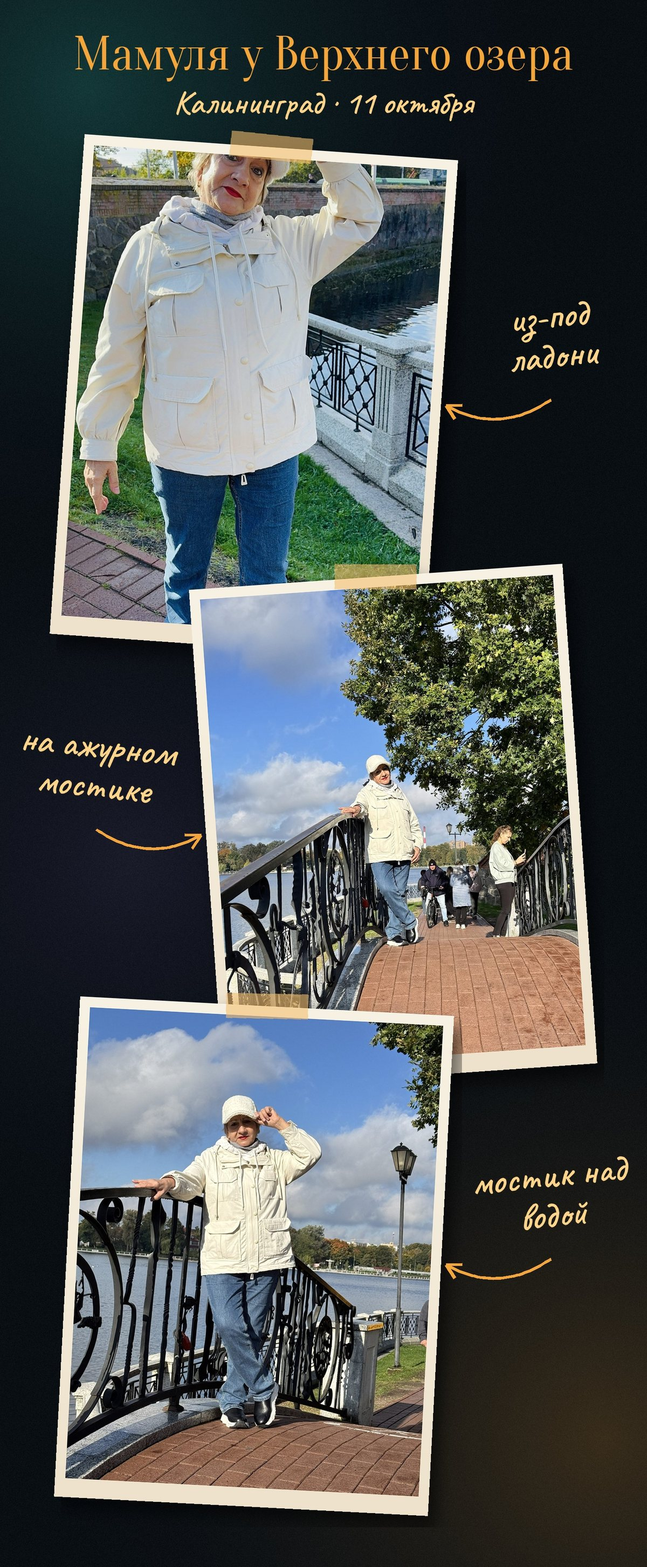
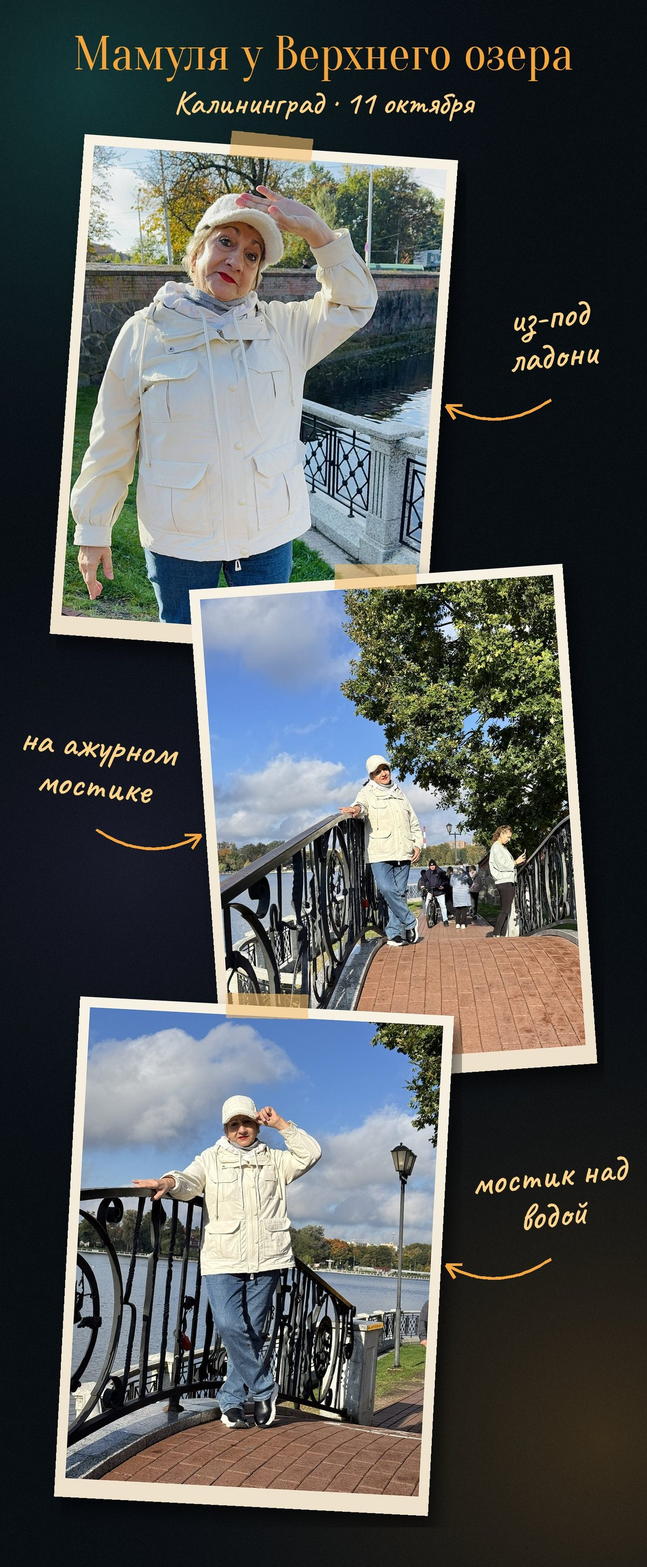
Альбом «Калининград»: в фильме страницы из 3 фото видны целиком, мамуля — с головой
- Страница «Мамуля у Верхнего озера»: фото «из-под ладони» обрезается снизу, а не сверху — голова видна.
- Фильм: высокие страницы больше не увеличиваются (наезд срезал верх); камера показывает страницу
  во всю ширину сверху и плавно опускается к нижнему фото, успевая до смены кадра.
- Подпись внизу кадра со страницей уходит к концу спуска, чтобы не закрывать нижнее фото.

Claude-Session: https://claude.ai/code/session_01BUmNQ2Kk9fTi5P6tnA3gYJ

Changed region(s): [[0.0925, 0.0929, 0.7092, 0.4026]]

diff --git a/kaliningrad/album/index.html b/kaliningrad/album/index.html
@@ -281,6 +281,10 @@ body.picking .wrap{padding-bottom:calc(var(--nav-h) + 230px + env(safe-area-inse
 .layer .bg.dim{filter:brightness(.38) saturate(1.1) blur(3px);transform:scale(1.06)}
 .layer .ph{position:absolute;inset:0;width:100%;height:100%;object-fit:contain;will-change:transform}
 .layer .ph.cover{object-fit:cover}
+/* высокая страница из 3 фото: во всю ширину, камера едет сверху вниз (без наезда, чтобы не срезать верх) */
+.layer .ph.page{overflow:hidden}
+.layer .ph.page img{display:block;width:100%;height:auto;will-change:transform}
+.layer .ph.page.still img{width:auto;height:100%;margin:0 auto}
 .shade{position:absolute;inset:0;background:radial-gradient(ellipse at 50% 55%,rgba(0,0,0,.12),rgba(0,0,0,.62))}
 .ft{
   position:absolute;inset:0;display:grid;place-content:center;justify-items:center;text-align:center;gap:10px;
@@ -641,7 +645,7 @@ body.picking .wrap{padding-bottom:calc(var(--nav-h) + 230px + env(safe-area-inse
  {"id": "d1-06", "day": 1, "src": "photos/d1-06.jpg", "thumb": "photos/t/d1-06.jpg", "w": 1500, "h": 2000, "place": "oz", "title": "Экскурсия у Верхнего озера", "date": "2026-10-11"},
  {"id": "d1-08", "day": 1, "type": "video", "src": "photos/d1-08.mp4?v=3", "poster": "photos/d1-08.jpg", "thumb": "photos/t/d1-08.jpg", "w": 720, "h": 1280, "dur": 5.5, "place": "oz", "title": "Шаг за шагом вдоль озера", "date": "2026-10-11", "time": "10:24", "muted": true},
  {"id": "d1-09", "day": 1, "type": "video", "src": "photos/d1-09.mp4?v=2", "poster": "photos/d1-09.jpg", "thumb": "photos/t/d1-09.jpg", "w": 720, "h": 1280, "dur": 5.9, "place": "oz", "title": "Мамуля распахнула руки озеру", "date": "2026-10-11", "time": "10:25", "muted": true},
- {"id": "d1-70", "day": 1, "src": "photos/d1-70.jpg", "thumb": "photos/t/d1-70.jpg", "w": 1200, "h": 2906, "place": "oz", "title": "Мамуля у Верхнего озера", "date": "2026-10-11", "collage": true},
+ {"id": "d1-70", "day": 1, "src": "photos/d1-70.jpg?v=2", "thumb": "photos/t/d1-70.jpg?v=2", "w": 1200, "h": 2906, "place": "oz", "title": "Мамуля у Верхнего озера", "date": "2026-10-11", "collage": true},
  {"id": "d1-71", "day": 1, "src": "photos/d1-71.jpg?v=2", "thumb": "photos/t/d1-71.jpg?v=2", "w": 1200, "h": 2775, "place": "oz", "title": "Верхнее озеро", "date": "2026-10-11", "collage": true},
  {"id": "d1-72", "day": 1, "src": "photos/d1-72.jpg?v=2", "thumb": "photos/t/d1-72.jpg?v=2", "w": 1200, "h": 2775, "place": "dona", "title": "Башня Дона", "date": "2026-10-11", "collage": true},
  {"id": "d1-73", "day": 1, "src": "photos/d1-73.jpg?v=2", "thumb": "photos/t/d1-73.jpg?v=2", "w": 1200, "h": 2110, "town": "kgd", "title": "Мамуля и осень", "date": "2026-10-11", "collage": true},
@@ -1536,8 +1540,10 @@ function frameHTML(f){
     const p = f.p, sr = innerWidth / innerHeight, pr = p.w && p.h ? p.w / p.h : sr;
     const cover = Math.abs(Math.log(pr / sr)) < .2;
     const old = p.pl ? [p.pl.old, p.pl.year].filter(Boolean).join(" · ") : "";
+    const page = !p.isVideo && p.collage && pr < sr;
     const media = p.isVideo
       ? `<video class="ph ${cover ? "cover" : ""}" src="${esc(p.src)}" poster="${esc(p.img)}" playsinline muted preload="auto"></video>`
+      : page ? `<div class="ph page ${reduce ? "still" : ""}"><img src="${esc(p.src)}" alt="${esc(p.name)}"></div>`
       : `<img class="ph kb ${cover ? "cover" : ""}" src="${esc(p.src)}" alt="${esc(p.name)}">`;
     return `<img class="bg blur" src="${esc(p.img)}" alt="">${media}
       <div class="cap" style="--c:${f.d.hex}"><div class="cap-place">${esc(p.name)}</div>${old ? `<div class="cap-old">${esc(old)}</div>` : ""}${p.memory ? `<div class="cap-hand">${esc(p.memory)}</div>` : ""}</div>`;
@@ -1578,6 +1584,17 @@ function animateFrame(layer, f){
   }
   const kb = $(".kb", layer);
   if (kb && !reduce){ const a = kb.animate(KB[Math.floor(Math.random() * KB.length)], {duration:dur, easing:"linear", fill:"forwards"}); film.anims.push(a); }
+  const pg = $(".ph.page img", layer);
+  if (pg && !reduce){
+    /* сначала верх страницы (заголовок и первое фото), потом плавно вниз до нижнего фото */
+    /* кадр может смениться уже через (такты − 1): к этому времени камера должна дойти до низа */
+    const dy = Math.max(0, layer.clientWidth * f.p.h / f.p.w - layer.clientHeight), vis = Math.max(1, barsOf(f) - 1) * BAR() * 1000;
+    film.anims.push(pg.animate([{transform:"translateY(0)"}, {transform:"translateY(0)", offset:.12 * vis / dur, easing:"ease-in-out"},
+      {transform:`translateY(${-dy}px)`, offset:.92 * vis / dur}, {transform:`translateY(${-dy}px)`}], {duration:dur, fill:"forwards"}));
+    /* подпись внизу уходит к концу спуска, чтобы не закрывать нижнее фото (название есть на самой странице) */
+    const cap = $(".cap", layer);
+    if (cap) film.anims.push(cap.animate([{opacity:1}, {opacity:0}], {delay:Math.max(1500, .92 * vis - 1200), duration:900, fill:"forwards"}));
+  }
   if (f.t === "credits"){
     const roll = $(".roll", layer), H = layer.clientHeight, h = roll.offsetHeight;
     const ms = Math.max(16000, (h + H * .55) / 46 * 1000);
